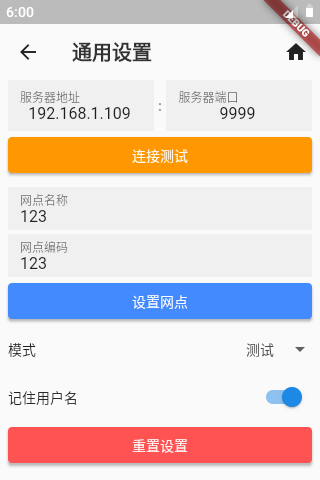
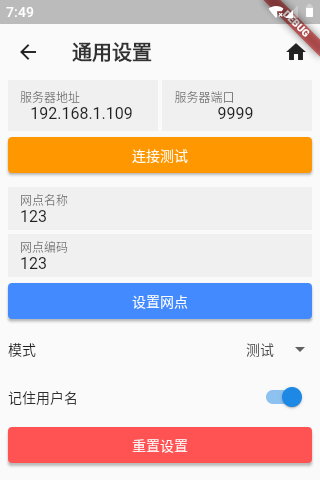
.

diff --git a/lib/screens/item_alloc/item_alloc_op_type.dart b/lib/screens/item_alloc/item_alloc_op_type.dart
@@ -14,37 +14,40 @@ class PackageItemAllocOpTypeScreen extends Screen {
 class _PackageItemAllocOpTypeScreenState extends ScreenState<PackageItemAllocOpTypeScreen> {
   @override
   Widget render(BuildContext context) {
-    return Column(
-      mainAxisAlignment: MainAxisAlignment.center,
-      crossAxisAlignment: CrossAxisAlignment.center,
-      children: <Widget>[
-        _TypeButton(
-          icon: Icons.add,
-          color: Colors.blueAccent,
-          text: '加件',
-          onTap: () {
-            push(PackageItemAllocScreen(opType: 1));
-          },
-        ),
-        Padding(padding: EdgeInsets.only(top: 8)),
-        _TypeButton(
-          icon: Icons.remove,
-          color: Colors.redAccent,
-          text: '减件',
-          onTap: () {
-            push(PackageItemAllocScreen(opType: 2));
-          },
-        ),
-        Padding(padding: EdgeInsets.only(top: 8)),
-        _TypeButton(
-          icon: Icons.find_in_page,
-          color: Colors.green,
-          text: '查询',
-          onTap: () {
-            push(PackageItemOpRecordSearchScreen());
-          },
-        ),
-      ],
+    return SingleChildScrollView(
+      padding: EdgeInsets.all(2),
+      child: Column(
+        mainAxisAlignment: MainAxisAlignment.center,
+        crossAxisAlignment: CrossAxisAlignment.center,
+        children: <Widget>[
+          _TypeButton(
+            icon: Icons.add,
+            color: Colors.blueAccent,
+            text: '加件',
+            onTap: () {
+              push(PackageItemAllocScreen(opType: 1));
+            },
+          ),
+          Padding(padding: EdgeInsets.only(top: 8)),
+          _TypeButton(
+            icon: Icons.remove,
+            color: Colors.redAccent,
+            text: '减件',
+            onTap: () {
+              push(PackageItemAllocScreen(opType: 2));
+            },
+          ),
+          Padding(padding: EdgeInsets.only(top: 8)),
+          _TypeButton(
+            icon: Icons.find_in_page,
+            color: Colors.green,
+            text: '查询',
+            onTap: () {
+              push(PackageItemOpRecordSearchScreen());
+            },
+          ),
+        ],
+      ),
     );
   }
 
@@ -59,18 +62,20 @@ class _TypeButton extends StatelessWidget {
 
   @override
   Widget build(BuildContext context) {
-    return Expanded(
+    return Container(
+      height: 120,
       child: Material(
         elevation: 1.5,
         borderRadius: BorderRadius.all(Radius.circular(4)),
         color: color,
         child: InkWell(
           onTap: onTap,
-          child: Center(child:
-            Column(
+          child: Center(
+            child: Column(
               mainAxisAlignment: MainAxisAlignment.center,
               children: <Widget>[
                 Icon(icon, color: Colors.white, size: 26),
+                Padding(padding: EdgeInsets.symmetric(vertical: 4),),
                 Text(
                   text,
                   style: TextStyle(

diff --git a/lib/screens/settings/general.dart b/lib/screens/settings/general.dart
@@ -79,10 +79,7 @@ class GeneralSettingsScreenState extends ScreenState<GeneralSettingsScreen> {
               onChanged: onServerChanged,
             ),
           ),
-          Padding(
-            padding: EdgeInsets.symmetric(horizontal: 4),
-            child: Text(':', style: TextStyle(color: Colors.grey, fontWeight: FontWeight.bold)),
-          ),
+          Padding(padding: EdgeInsets.symmetric(horizontal: 2),),
           Expanded(
             child: TextField(
               controller: fieldControllers['server.port'],

diff --git a/lib/screens/menu/main_menu.dart b/lib/screens/menu/main_menu.dart
@@ -85,7 +85,7 @@ class MainMenuState extends ScreenState<MainMenu> {
     @required VoidCallback onPressed,
   }) {
     return Card(
-      margin: EdgeInsets.all(3),
+      margin: EdgeInsets.all(2),
       elevation: 1.5,
       color: color,
       shape: RoundedRectangleBorder(borderRadius: BorderRadius.all(Radius.circular(4))),

diff --git a/lib/screens/screen.dart b/lib/screens/screen.dart
@@ -57,6 +57,7 @@ abstract class ScreenState<T extends Screen> extends State<T> {
       ),
       body: Container(
         padding: padding,
+        width: double.infinity,
         child: render(context),
       ),
     );
